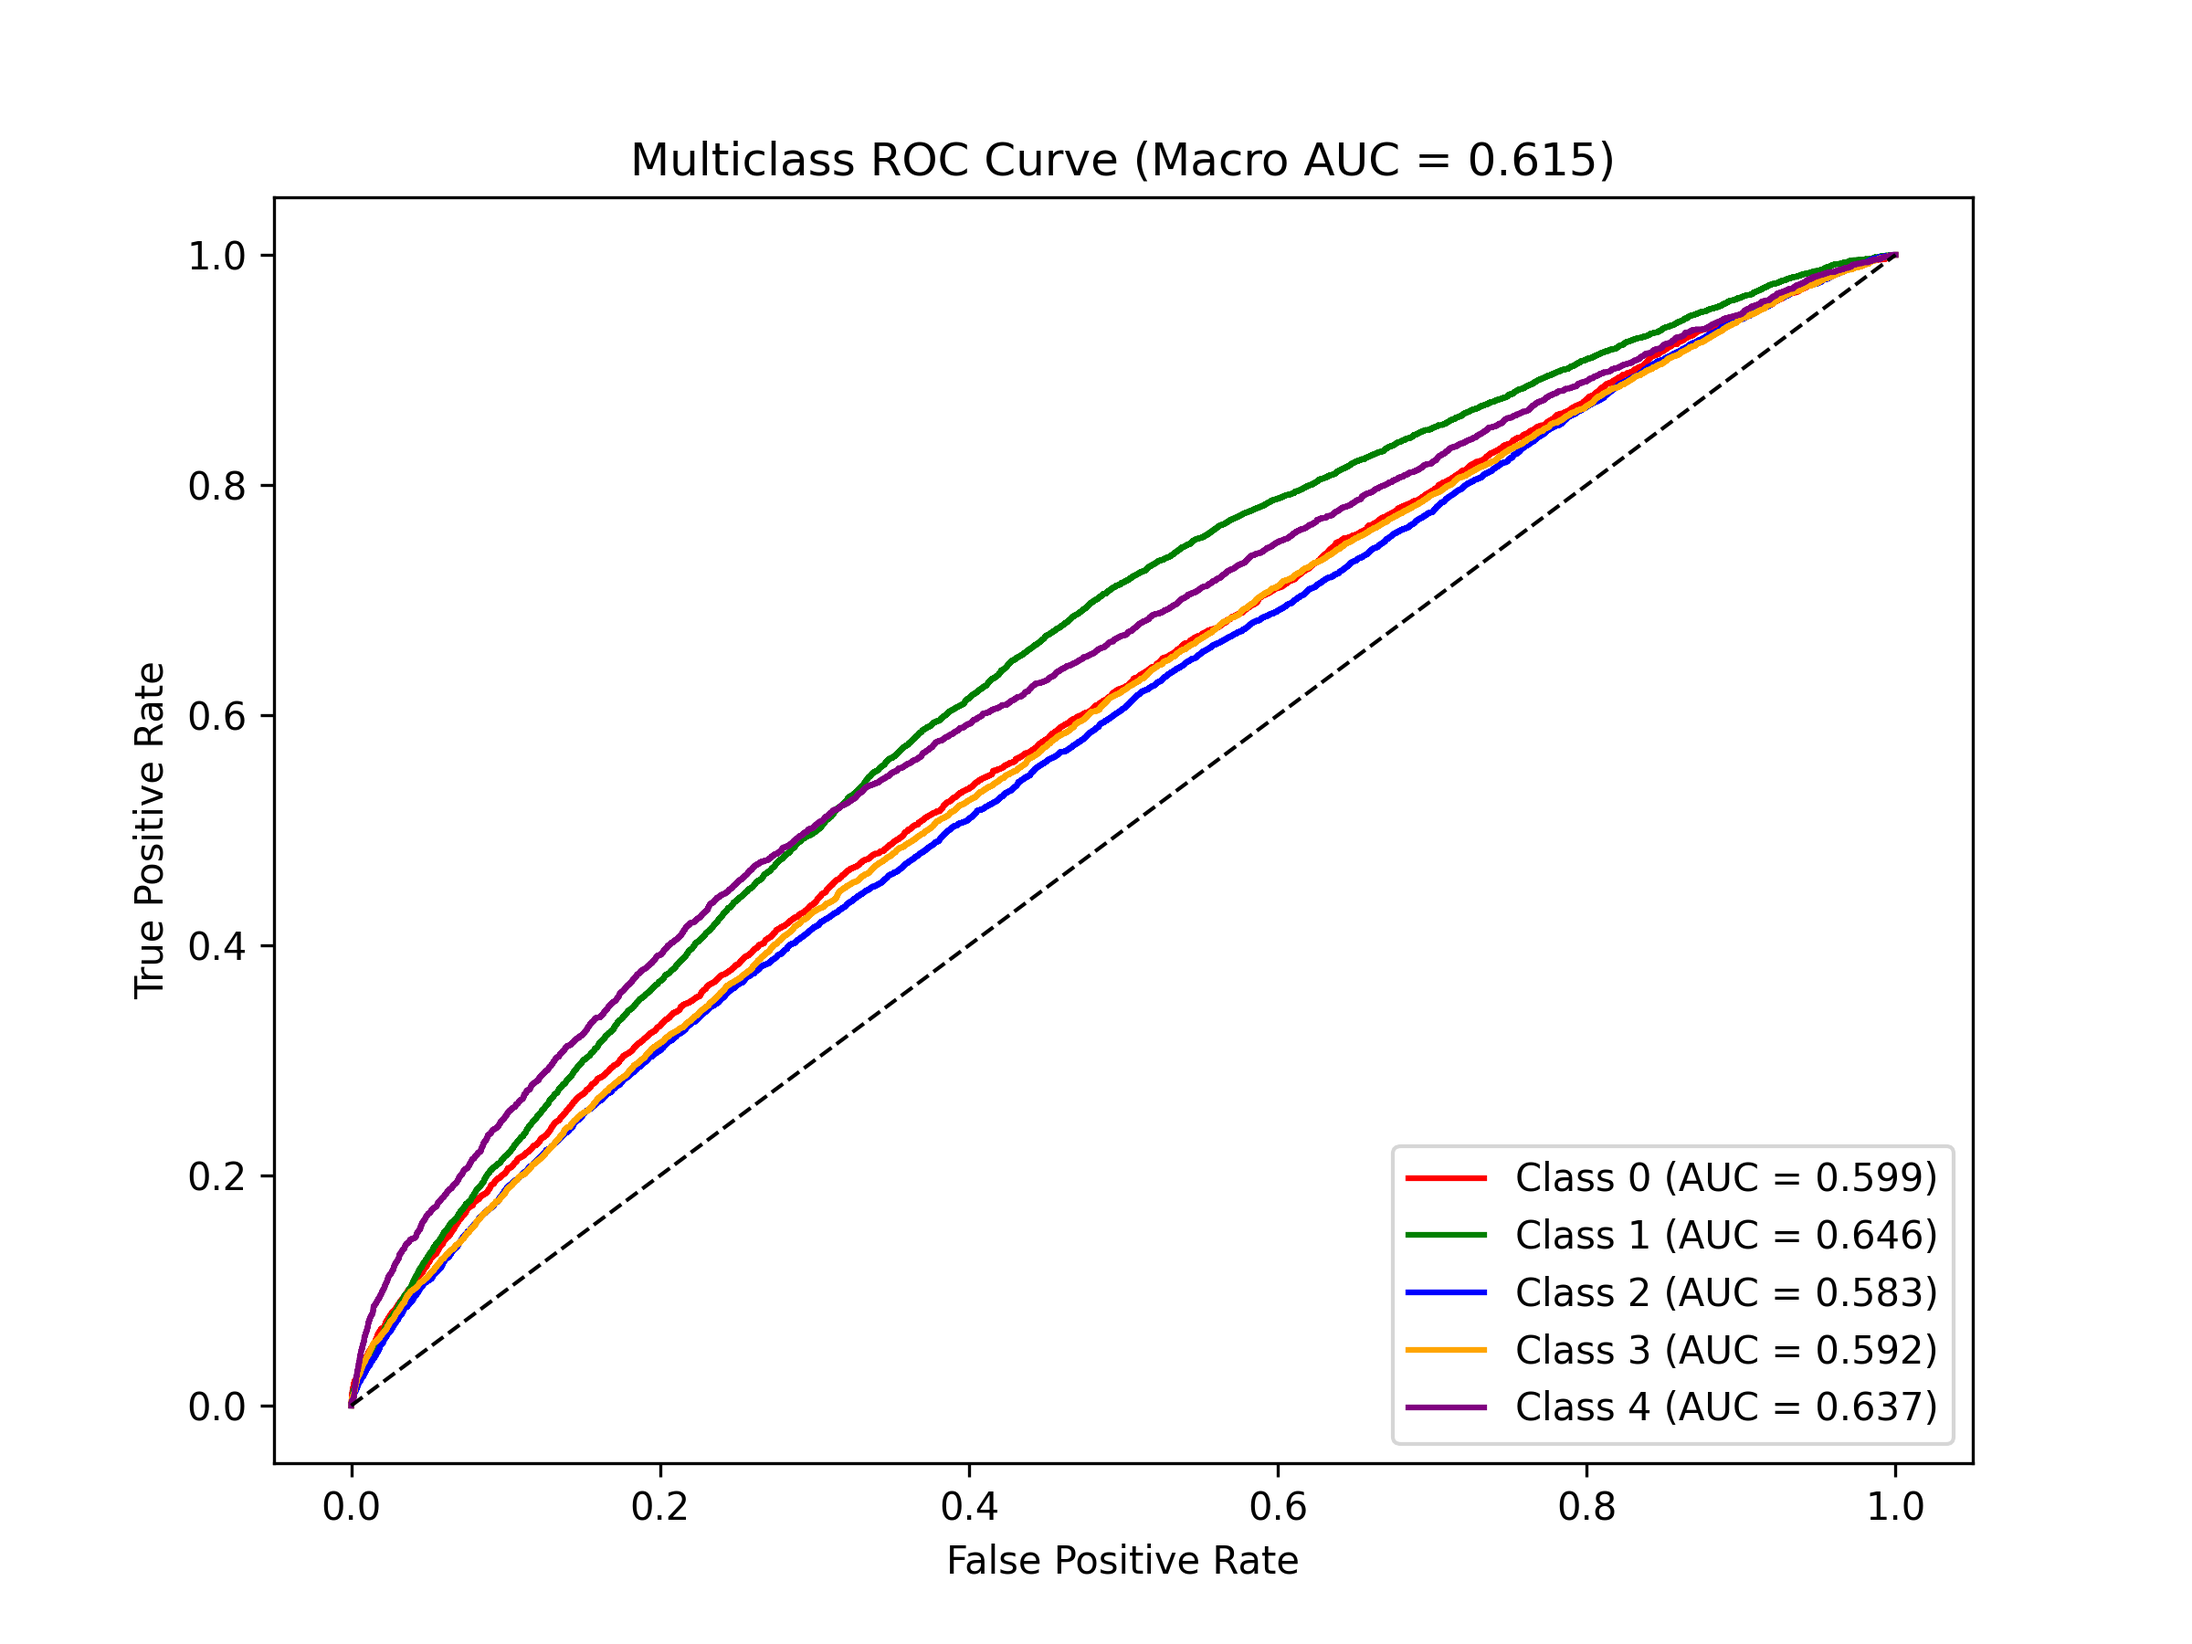
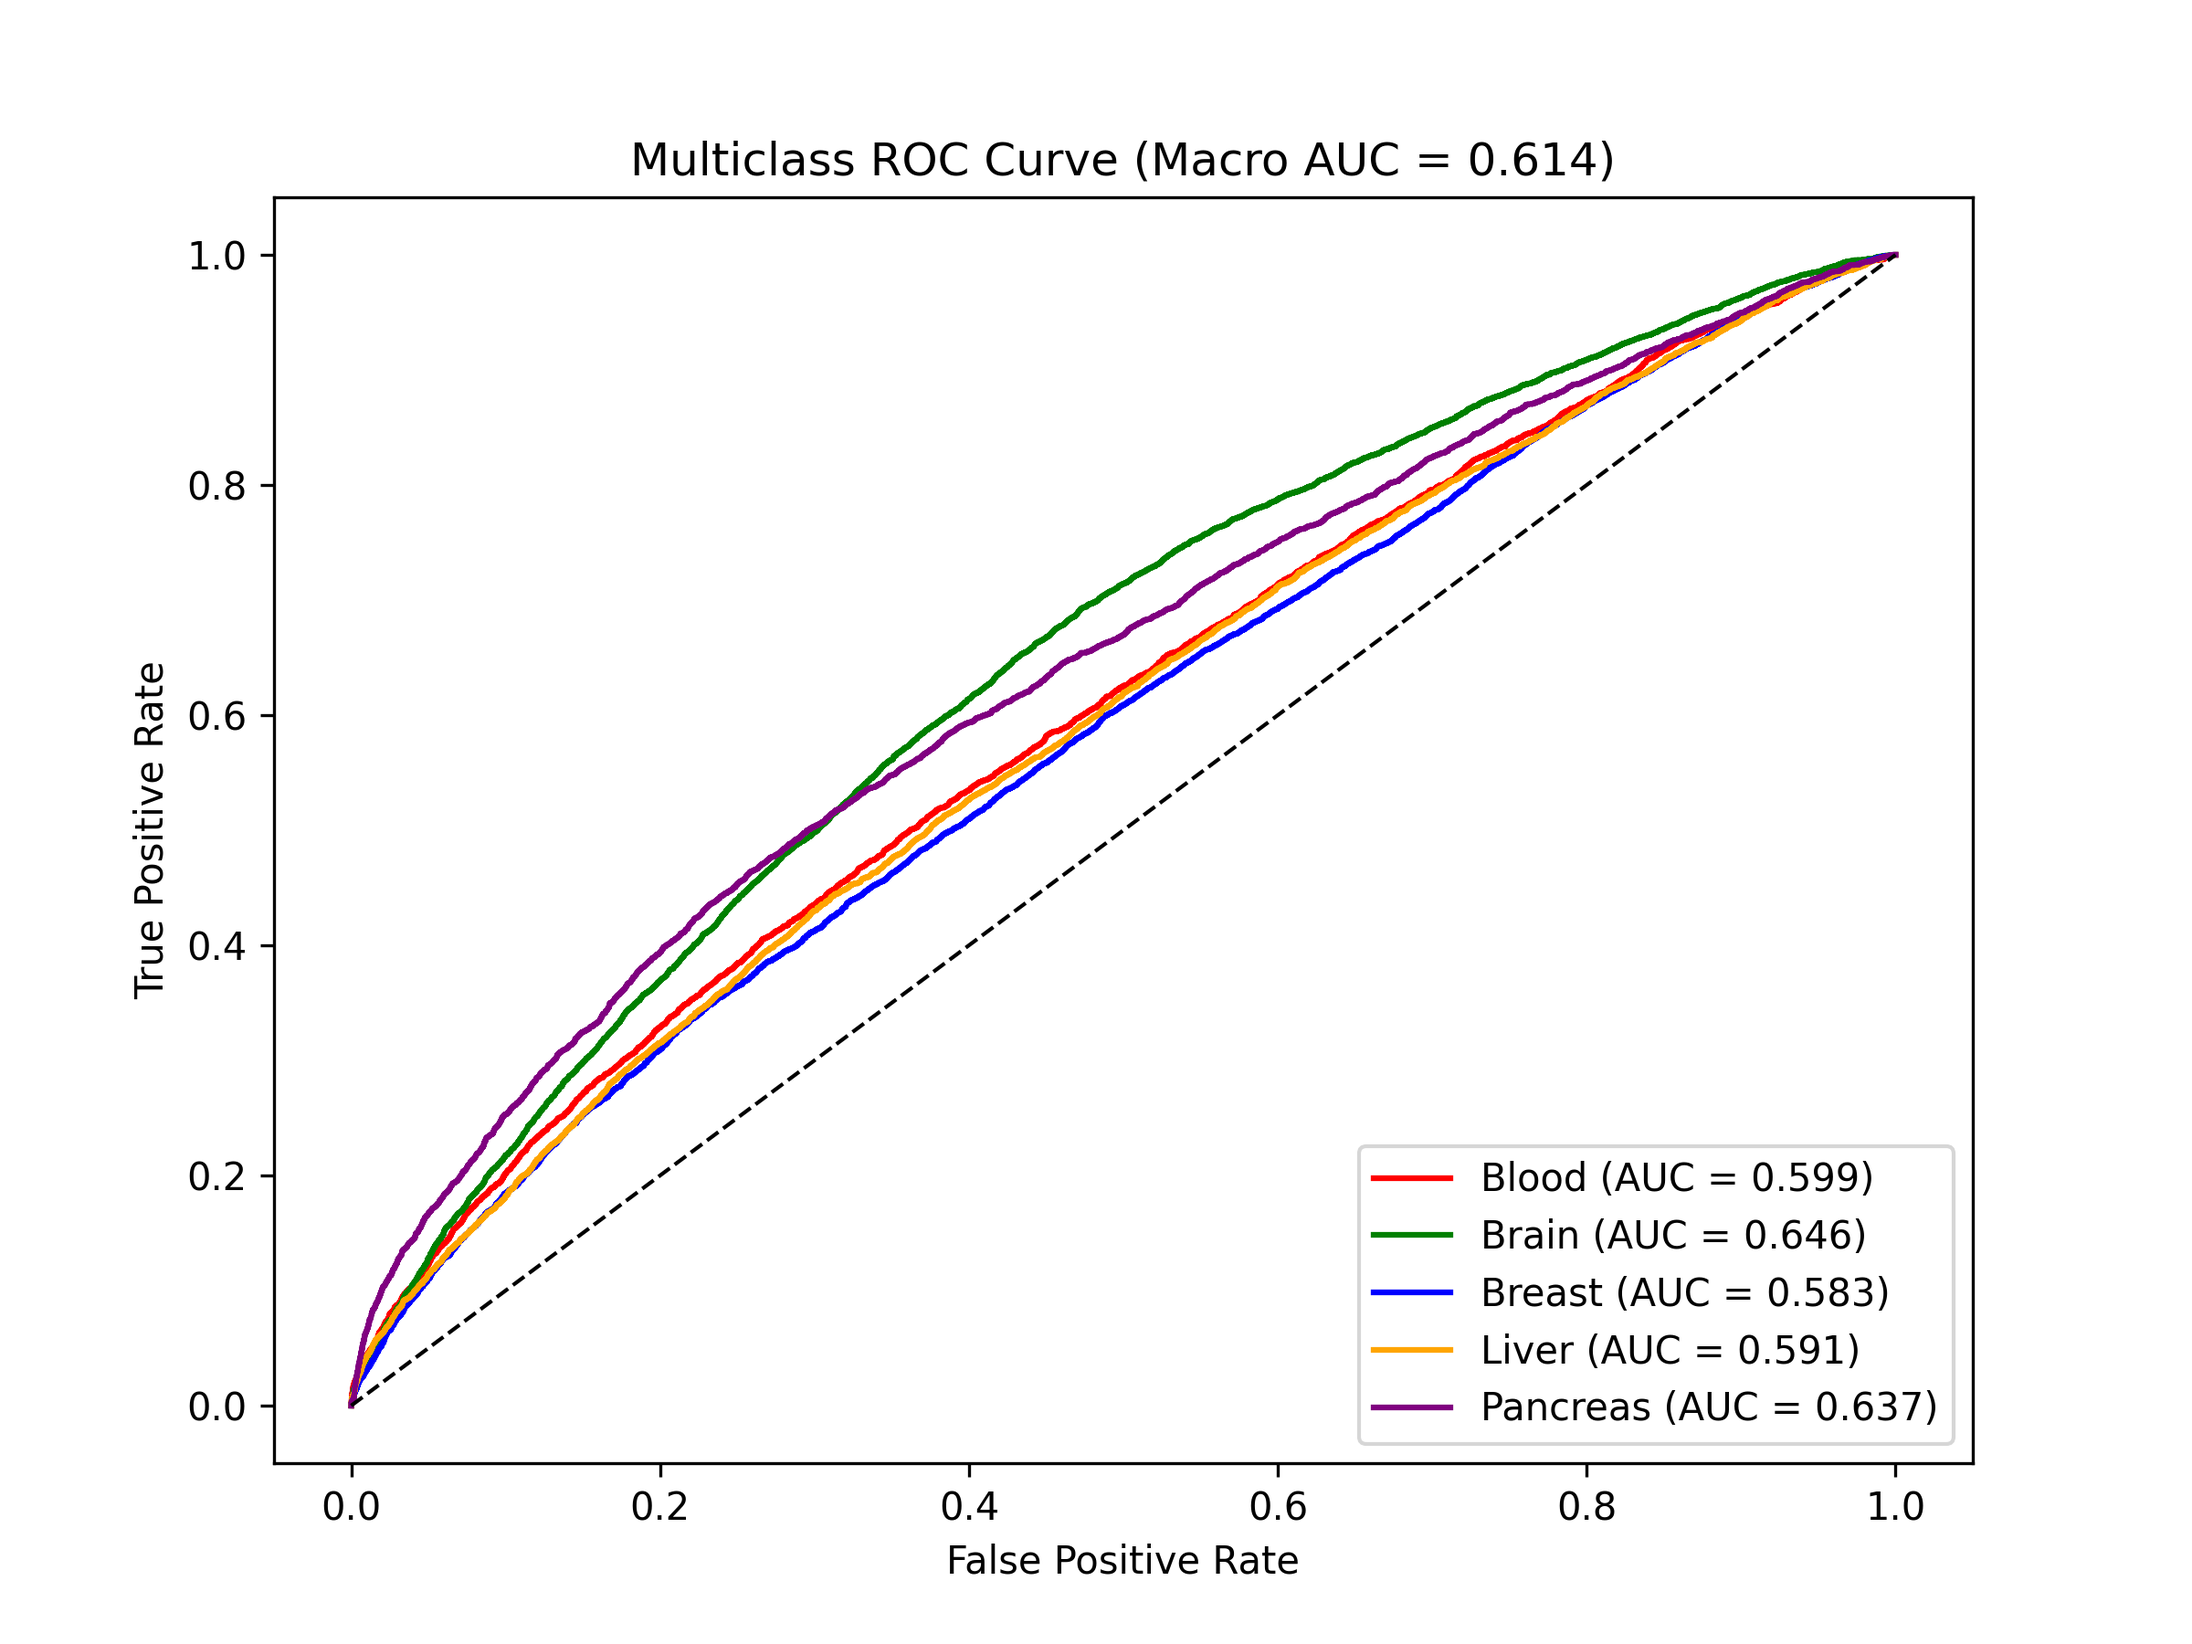
relabelling the roc curve and removing prediction terminal output

diff --git a/machine_learning/model.py b/machine_learning/model.py
@@ -97,6 +97,7 @@ def train_random_forest_optimised(data_path: str):
     # -----------------------------
     # 8⃣ ROC–AUC curve (multiclass)
     # -----------------------------
+    class_names = le_label.inverse_transform(list(range(len(le_label.classes_))))
     n_classes = len(np.unique(y))
     y_test_bin = label_binarize(y_test, classes=list(range(n_classes)))
     y_score = rf.predict_proba(X_test_scaled)
@@ -116,8 +117,12 @@ def train_random_forest_optimised(data_path: str):
     roc_plot = plt.figure(figsize=(8, 6))
     colors = cycle(["red", "green", "blue", "orange", "purple"])
     for i, color in zip(range(min(n_classes, 5)), colors):
-        plt.plot(fpr[i], tpr[i], color=color, lw=1.5,
-                    label=f"Class {i} (AUC = {roc_auc[i]:.3f})")
+        class_name = class_names[i]
+        plt.plot(
+            fpr[i], tpr[i],
+            color=color, lw=1.5,
+            label=f"{class_name} (AUC = {roc_auc[i]:.3f})"
+        )
     plt.plot([0, 1], [0, 1], "k--", lw=1)
     plt.title(f"Multiclass ROC Curve (Macro AUC = {roc_auc_macro:.3f})")
     plt.xlabel("False Positive Rate")

diff --git a/machine_learning/predict.py b/machine_learning/predict.py
@@ -59,5 +59,3 @@ output = {
     "confidence_percent": round(confidence, 2) if confidence else None,
     "display_text": result_text
 }
-
-print(json.dumps(output))
